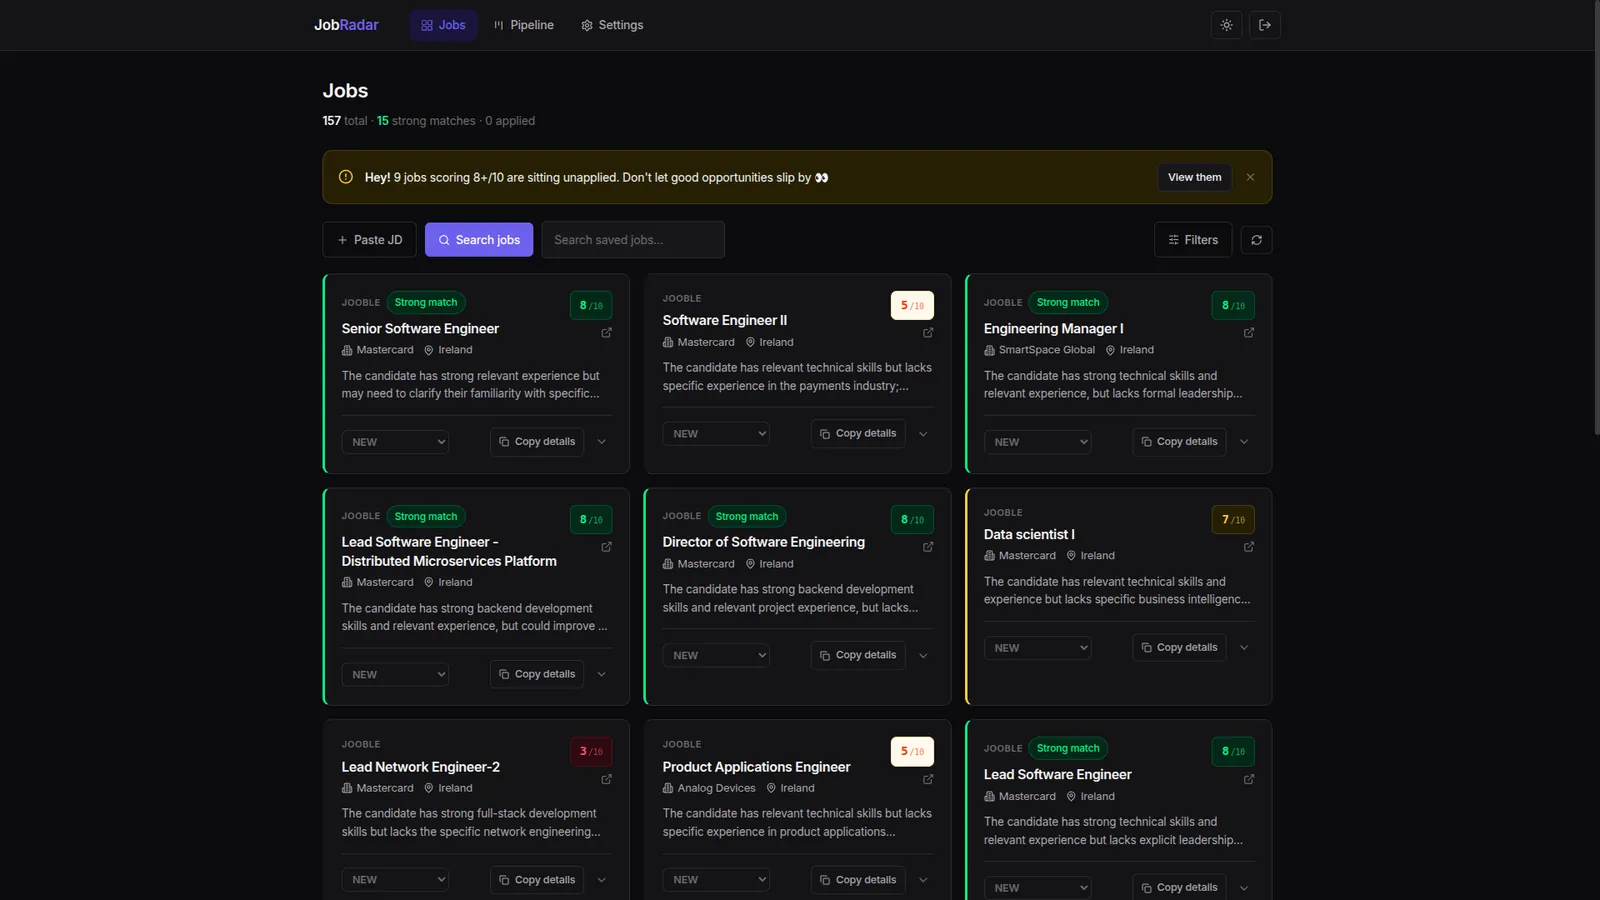
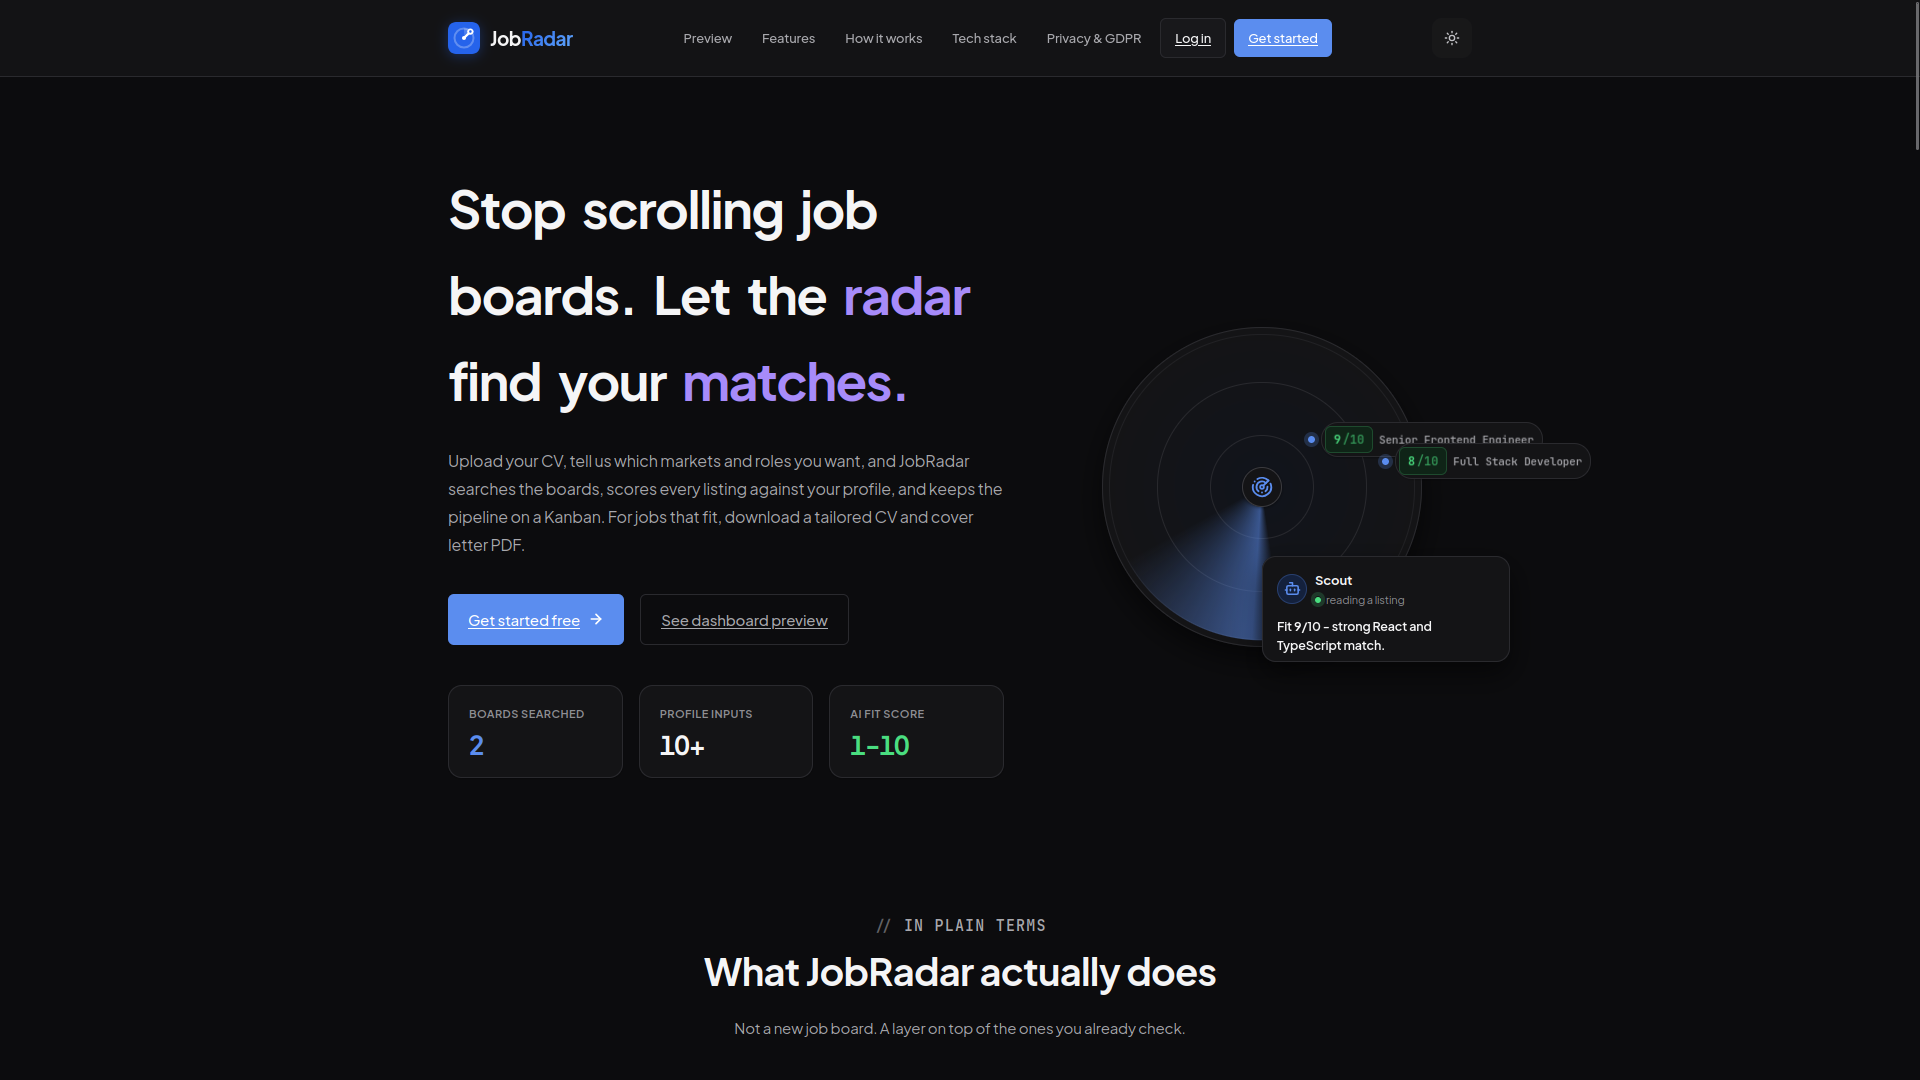
Update JobRadar to LangGraph, new screenshots, drop em dashes.

diff --git a/src/data/projects.js b/src/data/projects.js
@@ -2,26 +2,29 @@ export const projects = [
   {
     id: "jobradar-ai",
     title: "JobRadar AI",
-    tagline: "AI-Powered Job Search Copilot",
+    tagline: "Agentic Job Search Copilot · LangGraph",
     description:
-      "Full-stack job-hunting platform that crawls live listings, rates fit against your CV with a calibrated LLM pipeline, and turns strong matches into ATS-screened apply packs, tracked on a Kanban board.",
+      "Agentic job-hunting platform built on LangGraph: it crawls live listings and company ATS boards, rates fit against your CV with a calibrated LLM pipeline, and runs a multi-step agent graph (draft, ATS critique, revise, humanize) to turn strong matches into apply packs, with a per-job chat agent and a Kanban tracker.",
     images: [
       "/projects/JobRadarAI-1.webp",
       "/projects/JobRadarAI-2.webp",
       "/projects/JobRadarAI-3.webp",
+      "/projects/JobRadarAI-4.webp",
+      "/projects/JobRadarAI-5.webp",
     ],
     problem:
       "Job hunting means scanning hundreds of listings to find the ones actually worth your time, then losing track of who you applied to and why. Generic skill-overlap scores waste time on categorically wrong roles, and writing a tailored CV for every decent match is its own second job. I wanted a system that filters honestly, remembers my corrections, and drafts the application, not just ranks job titles.",
     whatIBuilt:
-      "A FastAPI + React/TypeScript app where you upload a CV once (PDF, Word, ODT, text, or LaTeX), set role, location, work-mode, and visa preferences, and the system crawls Jooble and JobsAPI (Indeed) in parallel. Each posting is rated 1-10 against the parsed CV with structured Pydantic output: score, matched strengths, essential vs preferred gaps, a verdict, auto-reject, and tailoring tips. Obvious mismatches never hit the LLM. A cosine-similarity pre-filter scores them cheaply. Surviving JDs are chunked into FAISS so the model reads the relevant parts of long postings instead of a truncated dump. You can star-rate the rating and leave a note; those corrections are retrieved as calibration context the next time a similar job is scored. Strong matches (6+) can generate an apply pack over SSE: a real three-call loop (draft, independent ATS critique, one bounded revision) that rewrites existing CV bullets in Google XYZ format and a structured cover letter, without inventing metrics. Every job moves through a Kanban pipeline from New to Saved to Applied to Interviewing to Offer or Rejected. Freemium quotas, an admin model catalog, GDPR-style data export/delete, and EU-default LLM routing (Mistral) sit underneath.",
+      "A FastAPI + React/TypeScript app where you upload a CV once (PDF, Word, ODT, text, or LaTeX), set role, location, work-mode, and visa preferences, and the system crawls Jooble, JobsAPI (Indeed), and company ATS boards (Greenhouse, Lever, Ashby public feeds) in parallel. Each posting is rated 1-10 against the parsed CV with structured Pydantic output: score, matched strengths, essential vs preferred gaps, a verdict, auto-reject, and tailoring tips. Obvious mismatches never hit the LLM. A cosine-similarity pre-filter scores them cheaply. Surviving JDs are chunked into FAISS so the model reads the relevant parts of long postings instead of a truncated dump. You can star-rate the rating and leave a note; those corrections are retrieved as calibration context the next time a similar job is scored. Strong matches (6+) can generate an apply pack over SSE, run as a LangGraph StateGraph: draft, independent ATS critique that tiers each issue (R1/R2/R3) and assigns an owner, one bounded revision only for drafter-owned R1/R2 issues, then a humanize pass. A deterministic integrity check reverts the humanized draft if any bullet, number, or fact drifts. Output is existing CV bullets rewritten in Google XYZ format plus a structured cover letter, compiled to PDF with Tectonic across selectable CV templates, without inventing metrics. Every job gets its own fenced chat: rating Q&A, build or rebuild the pack, draft answers to employer form questions, and propose MASTER CV additions ('add Rust as a skill') as cards you edit and accept before anything is written. Every job moves through a Kanban tracker from New to Saved to Applied to Interviewing to Offer or Rejected. Freemium quotas, an admin model catalog, GDPR-style data export/delete, and EU-default LLM routing (Mistral) sit underneath.",
     unique:
-      "Split LLM layer: CV parsing and bulk rating can run on different providers (Ollama, OpenAI, xAI, Mistral, DeepSeek) via env plus a per-user Settings picker, with LangSmith tracing on every call. Embeddings pre-filter, FAISS RAG, and user-calibration form a closed loop so the model gets cheaper, more consistent, and less same-stack-wrong-job. The prompt and hard post-processing separate categorical disqualifiers (IC vs management, junior vs senior, domain-as-core, visa/sponsorship) from gradable skill gaps; 2+ Essential gaps clamp the score to 6. Apply packs are a second pipeline, not a one-shot prompt: an ATS critic that did not write the draft tries to reject it, then a revision pass fixes only what was flagged.",
+      "Split LLM layer: CV parsing and bulk rating can run on different providers (Ollama, OpenAI, xAI, Mistral, DeepSeek) via env plus a per-user Settings picker, with LangSmith tracing on every call. Embeddings pre-filter, FAISS RAG, and user-calibration form a closed loop so the model gets cheaper, more consistent, and less same-stack-wrong-job. The prompt and hard post-processing separate categorical disqualifiers (IC vs management, junior vs senior, domain-as-core, visa/sponsorship) from gradable skill gaps; 2+ Essential gaps clamp the score to 6. Apply packs are a LangGraph graph, not a one-shot prompt: an ATS critic that did not write the draft tries to reject it, conditional edges route each issue to the reviser, the humanizer, or back to the user as 'Needs your input', and quality flags (Unaudited, Humanizer fallback) persist on the job instead of failing silently.",
     stack: [
       "FastAPI",
       "React",
       "TypeScript",
       "MongoDB",
       "LangChain",
+      "LangGraph",
       "LangSmith",
       "FAISS",
       "Pydantic",
@@ -31,6 +34,8 @@ export const projects = [
       "xAI",
       "Jooble API",
       "JobsAPI (Indeed)",
+      "Greenhouse/Lever/Ashby",
+      "Tectonic (LaTeX)",
     ],
     live: "https://jobradar.saimjs.com",
     github: "https://github.com/itsmesaim/jobRadarAI",
@@ -395,21 +400,32 @@ export const projects = [
     hasImages: true,
   },
   {
-    id: "financial-management",
-    title: "Financial Management App",
-    tagline: "FastAPI Backend",
+    id: "financial-management-system",
+    title: "Financial Management System",
+    tagline: "MSc team assignment · 3 sprints, student company",
     description:
-      "Personal finance backend tracking income, expenses, and budgets with category analytics.",
-    images: ["/projects/financial-1.png"],
+      "Agile team simulation for an MSc module: 8 to 10 students acting as a company, 3 sprints, a personal finance app with transactions, budgets, overspend alerts, and suggestions. FastAPI, Firebase Auth, Firestore, and email 2FA. I worked across design, frontend, and backend, and I was the only one who deployed it to a VPS.",
+    images: [],
     problem:
-      "Wanted a finance tracker that wasn't a spreadsheet or a creepy app that sells data. Built my own backend that I fully own.",
+      "This was not a solo finance app. The brief was to run like a real squad: scrum ceremonies, split design/dev/client roles, and ship through Git branches and PRs. The product problem was scattered transactions and no simple overspend warning. The bigger exercise was the process: sprint planning, a rotating scrum master, a Kanban board, and review discipline across about 30 feature branches. The 'company' was a bunch of students like us, as part of the master's subject, not a commercial client.",
     whatIBuilt:
-      "A FastAPI + SQLite backend tracking transactions across categories with monthly aggregates, budget targets, and a clean REST API ready to plug into any frontend.",
+      "A FastAPI + Jinja2 app on Cloud Firestore, with Firebase email/password auth and a custom SMTP 2FA step (6-digit email code). Flows we shipped: connect a bank account, record transactions with overspend emails, budget analysis and recommendations, customizable alerts, charts and suggestion pages, and user roles. Some backend logic (categorization, predictive insights) is simplified on purpose. The assignment was the team process, not production-depth fintech. My slice was wide: one of two on UI/design, work on templates and FastAPI routes, present at client meetings, and the only person who put the app on a VPS.",
     unique:
-      "Schema is designed around how money actually flows: recurring transactions, planned vs actual budgets, and rollover handling for shared expenses.",
-    stack: ["FastAPI", "Python", "SQLite", "JWT", "Pydantic"],
+      "A process artifact as much as a product one. Three sprints, a new scrum master each time, Kanban, and about 30 feature branches merged into develop through PRs. I was the connective tissue: design, frontend, backend, client discussions, and sole owner of deployment.",
+    stack: [
+      "FastAPI",
+      "Python",
+      "Jinja2",
+      "Firebase Auth",
+      "Cloud Firestore",
+      "SMTP 2FA",
+      "HTML/CSS",
+      "JavaScript",
+      "VPS",
+    ],
     github: "https://github.com/itsmesaim/Finaicial-management",
-    status: "Research method - grp project",
+    status: "coursework",
+    hasImages: false,
   },
 ];
 

diff --git a/src/components/sections/Journey/RocketMarker.jsx b/src/components/sections/Journey/RocketMarker.jsx
@@ -7,7 +7,7 @@ import * as THREE from "three";
 const MINT = "#3EFFC2";
 const SCALE = 0.55;
 
-// Model ships nose-up along world Y, standing on a launchpad — a
+// Model ships nose-up along world Y, standing on a launchpad, a
 // Z-axis-only spin can't tip that over, it just spins it in place
 // (still looks "standing" from any angle). Tipping it onto its side
 // needs a rotation around X instead, applied once as a static base
@@ -16,12 +16,12 @@ const SCALE = 0.55;
 const TIP_ROTATION_X = -Math.PI / 2;
 
 // Nose lands pointing backward relative to travel direction after the
-// tip — flip it 180° so it faces forward instead.
+// tip, flip it 180° so it faces forward instead.
 const NOSE_FLIP = Math.PI;
 
 // The glb's own materials: mat23 is baked near-black (0.01,0.01,0.01),
 // which is why it rendered as a black silhouette regardless of
-// lighting — that's the mesh's actual color, not a lighting bug.
+// lighting, that's the mesh's actual color, not a lighting bug.
 // mat5/mat14 are off-palette blue/red. Remap all four to mint/gray so
 // it matches the rest of the site instead of the source asset's colors.
 const MATERIAL_COLORS = {
@@ -38,7 +38,7 @@ function RocketModel({ angle }) {
   const { scene } = useGLTF("/models/rocket.glb");
 
   // Recenter on the model's actual bounding box (computed once) rather
-  // than a hand-measured offset — a fixed offset gets dragged off-axis
+  // than a hand-measured offset, a fixed offset gets dragged off-axis
   // once the parent group starts rotating every frame.
   const centered = useMemo(() => {
     const clone = scene.clone(true);
@@ -58,7 +58,7 @@ function RocketModel({ angle }) {
 
   useFrame(({ clock }) => {
     if (!groupRef.current) return;
-    // Live path-direction spin stays on Z — that's the screen plane
+    // Live path-direction spin stays on Z, that's the screen plane
     // the 2D path lives in.
     groupRef.current.rotation.z = -(angle * Math.PI) / 180 + NOSE_FLIP;
     groupRef.current.position.y = Math.sin(clock.getElapsedTime() * 2) * 0.05;
@@ -78,7 +78,7 @@ export function RocketMarker({ angle = 0, size = 96 }) {
     <Canvas
       // Camera sits (almost) dead-on along Z, the same axis the rocket
       // spins around. An oblique camera made the model foreshorten into
-      // a thin sliver at some path angles — this keeps it full-size and
+      // a thin sliver at some path angles, this keeps it full-size and
       // consistent at every rotation.
       camera={{ position: [0, 0.35, 2.5], fov: 50 }}
       gl={{ antialias: true, alpha: true }}

diff --git a/src/components/sections/About/AboutSection.jsx b/src/components/sections/About/AboutSection.jsx
@@ -63,7 +63,7 @@ export function AboutSection() {
           mb: { xs: 6, md: 8 },
         }}
       >
-        {/* Photo — compact card */}
+        {/* Photo, compact card */}
         <Box
           sx={{
             width: { xs: 220, md: 280, lg: 320 },
@@ -126,7 +126,7 @@ export function AboutSection() {
         </Box>
 
         <Box>
-          {/* Full bio — not split */}
+          {/* Full bio, not split */}
           <Typography
             sx={{
               fontFamily: '"Satoshi",sans-serif',
@@ -172,9 +172,9 @@ export function AboutSection() {
             >
               JobRadar AI
             </Box>{" "}
-            is the main one right now: LangChain, structured ratings, a FAISS
-            RAG pipeline on Mistral, with DeepSeek or OpenAI if you want. I'm
-            pushing that toward LangGraph and agentic flows next.{" "}
+            is the main one right now: an agentic LangGraph pipeline for apply
+            packs, LangChain structured ratings, and a FAISS RAG pipeline on
+            Mistral, with DeepSeek or OpenAI if you want.{" "}
             <Box
               component="a"
               href={personal.social.live}
@@ -192,7 +192,7 @@ export function AboutSection() {
             is the other, a real-time video platform on WebRTC and LiveKit.
           </Typography>
 
-          {/* Full journey — collapsed by default */}
+          {/* Full journey, collapsed by default */}
           <Box
             component="button"
             onClick={() => setJourneyOpen((v) => !v)}
@@ -269,7 +269,7 @@ BEng finished May 2024. Moved to Dublin that September for the MSc. Kept freelan
           </AnimatePresence>
         </Box>
 
-        {/* Pull-quote — fills the dead space on wide screens, hidden below lg */}
+        {/* Pull-quote, fills the dead space on wide screens, hidden below lg */}
         <Box
           sx={{
             display: { xs: "none", lg: "flex" },

diff --git a/src/components/sections/Journey/JourneySection.jsx b/src/components/sections/Journey/JourneySection.jsx
@@ -68,7 +68,7 @@ export function JourneySection() {
     if (!path) return;
     const point = path.getPointAtLength(len);
     const ahead = path.getPointAtLength(Math.min(len + 1, pathLength.current));
-    // Tangent always points in the curve's 2020->2026 direction — flip
+    // Tangent always points in the curve's 2020->2026 direction, flip
     // it 180° when actually travelling backward (prev button) so the
     // nose faces the way it's really moving instead of flying tail-first.
     const angle =
@@ -235,7 +235,7 @@ export function JourneySection() {
                     onMouseLeave={() => setHoveredId(null)}
                     onClick={() => setActiveIndex(i)}
                   />
-                  {/* Craters — low-poly asteroid texture */}
+                  {/* Craters, low-poly asteroid texture */}
                   <ellipse
                     cx={w.pos[0] + Math.cos(craterAngle) * w.radius * 0.35}
                     cy={w.pos[1] + Math.sin(craterAngle) * w.radius * 0.35}
@@ -300,7 +300,7 @@ export function JourneySection() {
             })}
           </Box>
 
-          {/* Rocket marker — real 3D model, tweens between waypoints */}
+          {/* Rocket marker, real 3D model, tweens between waypoints */}
           <Box
             sx={{
               position: "absolute",

diff --git a/src/data/personal.js b/src/data/personal.js
@@ -3,7 +3,7 @@ export const personal = {
   role: "Junior Full-Stack Developer",
   tagline:
     "Junior full-stack. React and Node in production. LangChain, RAG, and agentic workflows are what I'm deep in now.",
-  bio: "Junior full-stack developer. Strongest on React, JavaScript, and Node. I know LLMs well: LangChain in live products (JobRadar, MeetX), RAG, structured output, and LangSmith tracing. Under that sits NLP from the degree: n-grams, regex, NLTK, spaCy, and some TensorFlow. Right now I'm going deep on LangGraph and agentic pipelines. Comfortable taking a feature from UI to API to deploy. Still a junior on the software side. The AI work is the thing I'm studying hardest.",
+  bio: "Junior full-stack developer. Strongest on React, JavaScript, and Node. I know LLMs well: LangChain in live products (JobRadar, MeetX), LangGraph agent pipelines (JobRadar), RAG, structured output, and LangSmith tracing. Under that sits NLP from the degree: n-grams, regex, NLTK, spaCy, and some TensorFlow. Comfortable taking a feature from UI to API to deploy. Still a junior on the software side. The AI work is the thing I'm studying hardest.",
   location: "Dublin, Ireland",
   email: "saimkaskar1@gmail.com",
   phone: "+353 89 446 3413",

diff --git a/src/data/journey.js b/src/data/journey.js
@@ -91,9 +91,9 @@ export const journeyWaypoints = [
     pos: [1150, 75],
     radius: 36,
     current: true,
-    hover: "LangChain in production. LangGraph next.",
-    title: "LangChain in production. LangGraph next.",
-    text: "Agentic AI is what I'm studying hardest. JobRadar AI is live: LangChain, structured output, a FAISS RAG pipeline on Mistral by default. MeetX traces LLM calls in LangSmith. Right now I'm going deeper on LangGraph and multi-step agents. Still applying. Still figuring out where this lands.",
+    hover: "LangChain and LangGraph in production.",
+    title: "LangChain and LangGraph in production.",
+    text: "Agentic AI is what I'm studying hardest. JobRadar AI is live: LangChain, structured output, a FAISS RAG pipeline on Mistral by default, and now a LangGraph agent graph that drafts, ATS-critiques, revises, and humanizes each apply pack. MeetX traces LLM calls in LangSmith. Next is going deeper on multi-agent setups. Still applying. Still figuring out where this lands.",
     tags: ["LangChain", "LangGraph", "RAG", "LangSmith"],
   },
 ];

diff --git a/src/components/sections/Hero/HeroText.jsx b/src/components/sections/Hero/HeroText.jsx
@@ -116,7 +116,7 @@ export function HeroText() {
         pb: { xs: 6, md: 8 },
       }}
     >
-      {/* Section indicator — top left */}
+      {/* Section indicator, top left */}
       <Box
         sx={{
           position: "absolute",
@@ -135,7 +135,7 @@ export function HeroText() {
         </motion.div>
       </Box>
 
-      {/* Right metadata — desktop only */}
+      {/* Right metadata, desktop only */}
       <Box
         sx={{
           position: "absolute",
@@ -206,12 +206,12 @@ export function HeroText() {
               Fighting AI with AI.
             </Box>{" "}
             <Box component="span" sx={{ color: "#707070", fontWeight: 400 }}>
-              Junior full-stack in Dublin. LangChain shipped. LangGraph next.
+              Junior full-stack in Dublin. LangChain and LangGraph shipped.
             </Box>
           </Typography>
         </motion.div>
 
-        {/* CTAs — simple, no repetition */}
+        {/* CTAs, simple, no repetition */}
         <motion.div {...up(1.4)}>
           <Box
             sx={{

diff --git a/src/components/sections/TechStack/TechGlobe.jsx b/src/components/sections/TechStack/TechGlobe.jsx
@@ -105,7 +105,7 @@ function OverviewSun({ position, label, onClick, index }) {
       {/* Point light */}
       <pointLight intensity={1.6} distance={3.5} color="#3EFFC2" decay={2} />
 
-      {/* Label — always visible */}
+      {/* Label, always visible */}
       <Html center distanceFactor={10} style={{ pointerEvents: "none" }}>
         <div
           style={{
@@ -183,7 +183,7 @@ function DetailPlanet({ data }) {
 
   return (
     <group ref={groupRef}>
-      {/* Glowing orb behind logo — catches Bloom */}
+      {/* Glowing orb behind logo, catches Bloom */}
       <mesh>
         <sphereGeometry args={[0.14, 16, 16]} />
         <meshStandardMaterial
@@ -195,7 +195,7 @@ function DetailPlanet({ data }) {
         />
       </mesh>
 
-      {/* Glow ring — also blooms */}
+      {/* Glow ring, also blooms */}
       <mesh rotation={[Math.PI / 2, 0, 0]}>
         <ringGeometry args={[0.18, 0.28, 32]} />
         <meshBasicMaterial

diff --git a/src/components/sections/Projects/ProjectCard.jsx b/src/components/sections/Projects/ProjectCard.jsx
@@ -31,7 +31,7 @@ const GRADIENTS = {
     "linear-gradient(135deg, #0a1028 0%, #1a3a7c 50%, #0a1028 100%)",
   "aeroflow-airport":
     "linear-gradient(135deg, #0A1628 0%, #1a3a5c 50%, #0A1628 100%)",
-  "financial-management":
+  "financial-management-system":
     "linear-gradient(135deg, #0a280f 0%, #1a5c2a 50%, #0a280f 100%)",
   freelance: "linear-gradient(135deg, #1a1a1a 0%, #2a2a2a 50%, #1a1a1a 100%)",
 };
@@ -302,7 +302,7 @@ export function ProjectCard({ project, index, onClick }) {
         <Box sx={{ order: { xs: 2, md: isAlt ? 1 : 2 } }}>
           <Box sx={{ display: "flex", alignItems: "center", gap: 2, mb: 2 }}>
             <Box sx={{ display: "flex", alignItems: "center", gap: 1 }}>
-              {/* flat square — no blink, no glow */}
+              {/* flat square, no blink, no glow */}
               <Box
                 sx={{
                   width: 6,

diff --git a/src/data/techStack.js b/src/data/techStack.js
@@ -175,7 +175,7 @@ export const techCategories = [
     label: "AI & ML",
     key: "aiml",
     summary:
-      "NLP and classical ML from the degree. LLMs in shipped apps. LangGraph is what I'm studying now.",
+      "NLP and classical ML from the degree. LLMs in shipped apps, including a LangGraph agent pipeline in JobRadar.",
     items: [
       {
         name: "OpenAI SDK",
@@ -299,7 +299,7 @@ export const techCategories = [
       {
         name: "LangGraph",
         icon: "https://cdn.jsdelivr.net/gh/devicons/devicon/icons/python/python-original.svg",
-        level: "Learning",
+        level: "Working",
         years: "<1y",
         score: 52,
       },

diff --git a/src/app/layout.js b/src/app/layout.js
@@ -5,7 +5,7 @@ import { Providers } from "./Providers";
 const SITE_URL = "https://saimjs.com";
 const TITLE = "Saim Kaskar | Junior Full-Stack Developer in Dublin";
 const DESCRIPTION =
-  "Junior full-stack developer in Dublin. I ship React and Node apps, use LangChain in production, and I am learning LangGraph. MSc Computing, Griffith College. Open to work.";
+  "Junior full-stack developer in Dublin. I ship React and Node apps, and build agentic AI with LangChain and LangGraph in production. MSc Computing, Griffith College. Open to work.";
 
 export const metadata = {
   metadataBase: new URL(SITE_URL),

diff --git a/src/components/sections/Hero/AvatarModel.jsx b/src/components/sections/Hero/AvatarModel.jsx
@@ -43,7 +43,7 @@ export function AvatarModel({ position = [0, -1.4, 0] }) {
           wave.fadeOut(0.3);
           dance.reset().setLoop(THREE.LoopOnce, 1);
           dance.clampWhenFinished = true;
-          // Full-speed clip reads as frantic on this rig — slow it down.
+          // Full-speed clip reads as frantic on this rig, slow it down.
           dance.timeScale = 0.55;
           dance.fadeIn(0.3).play();
 
